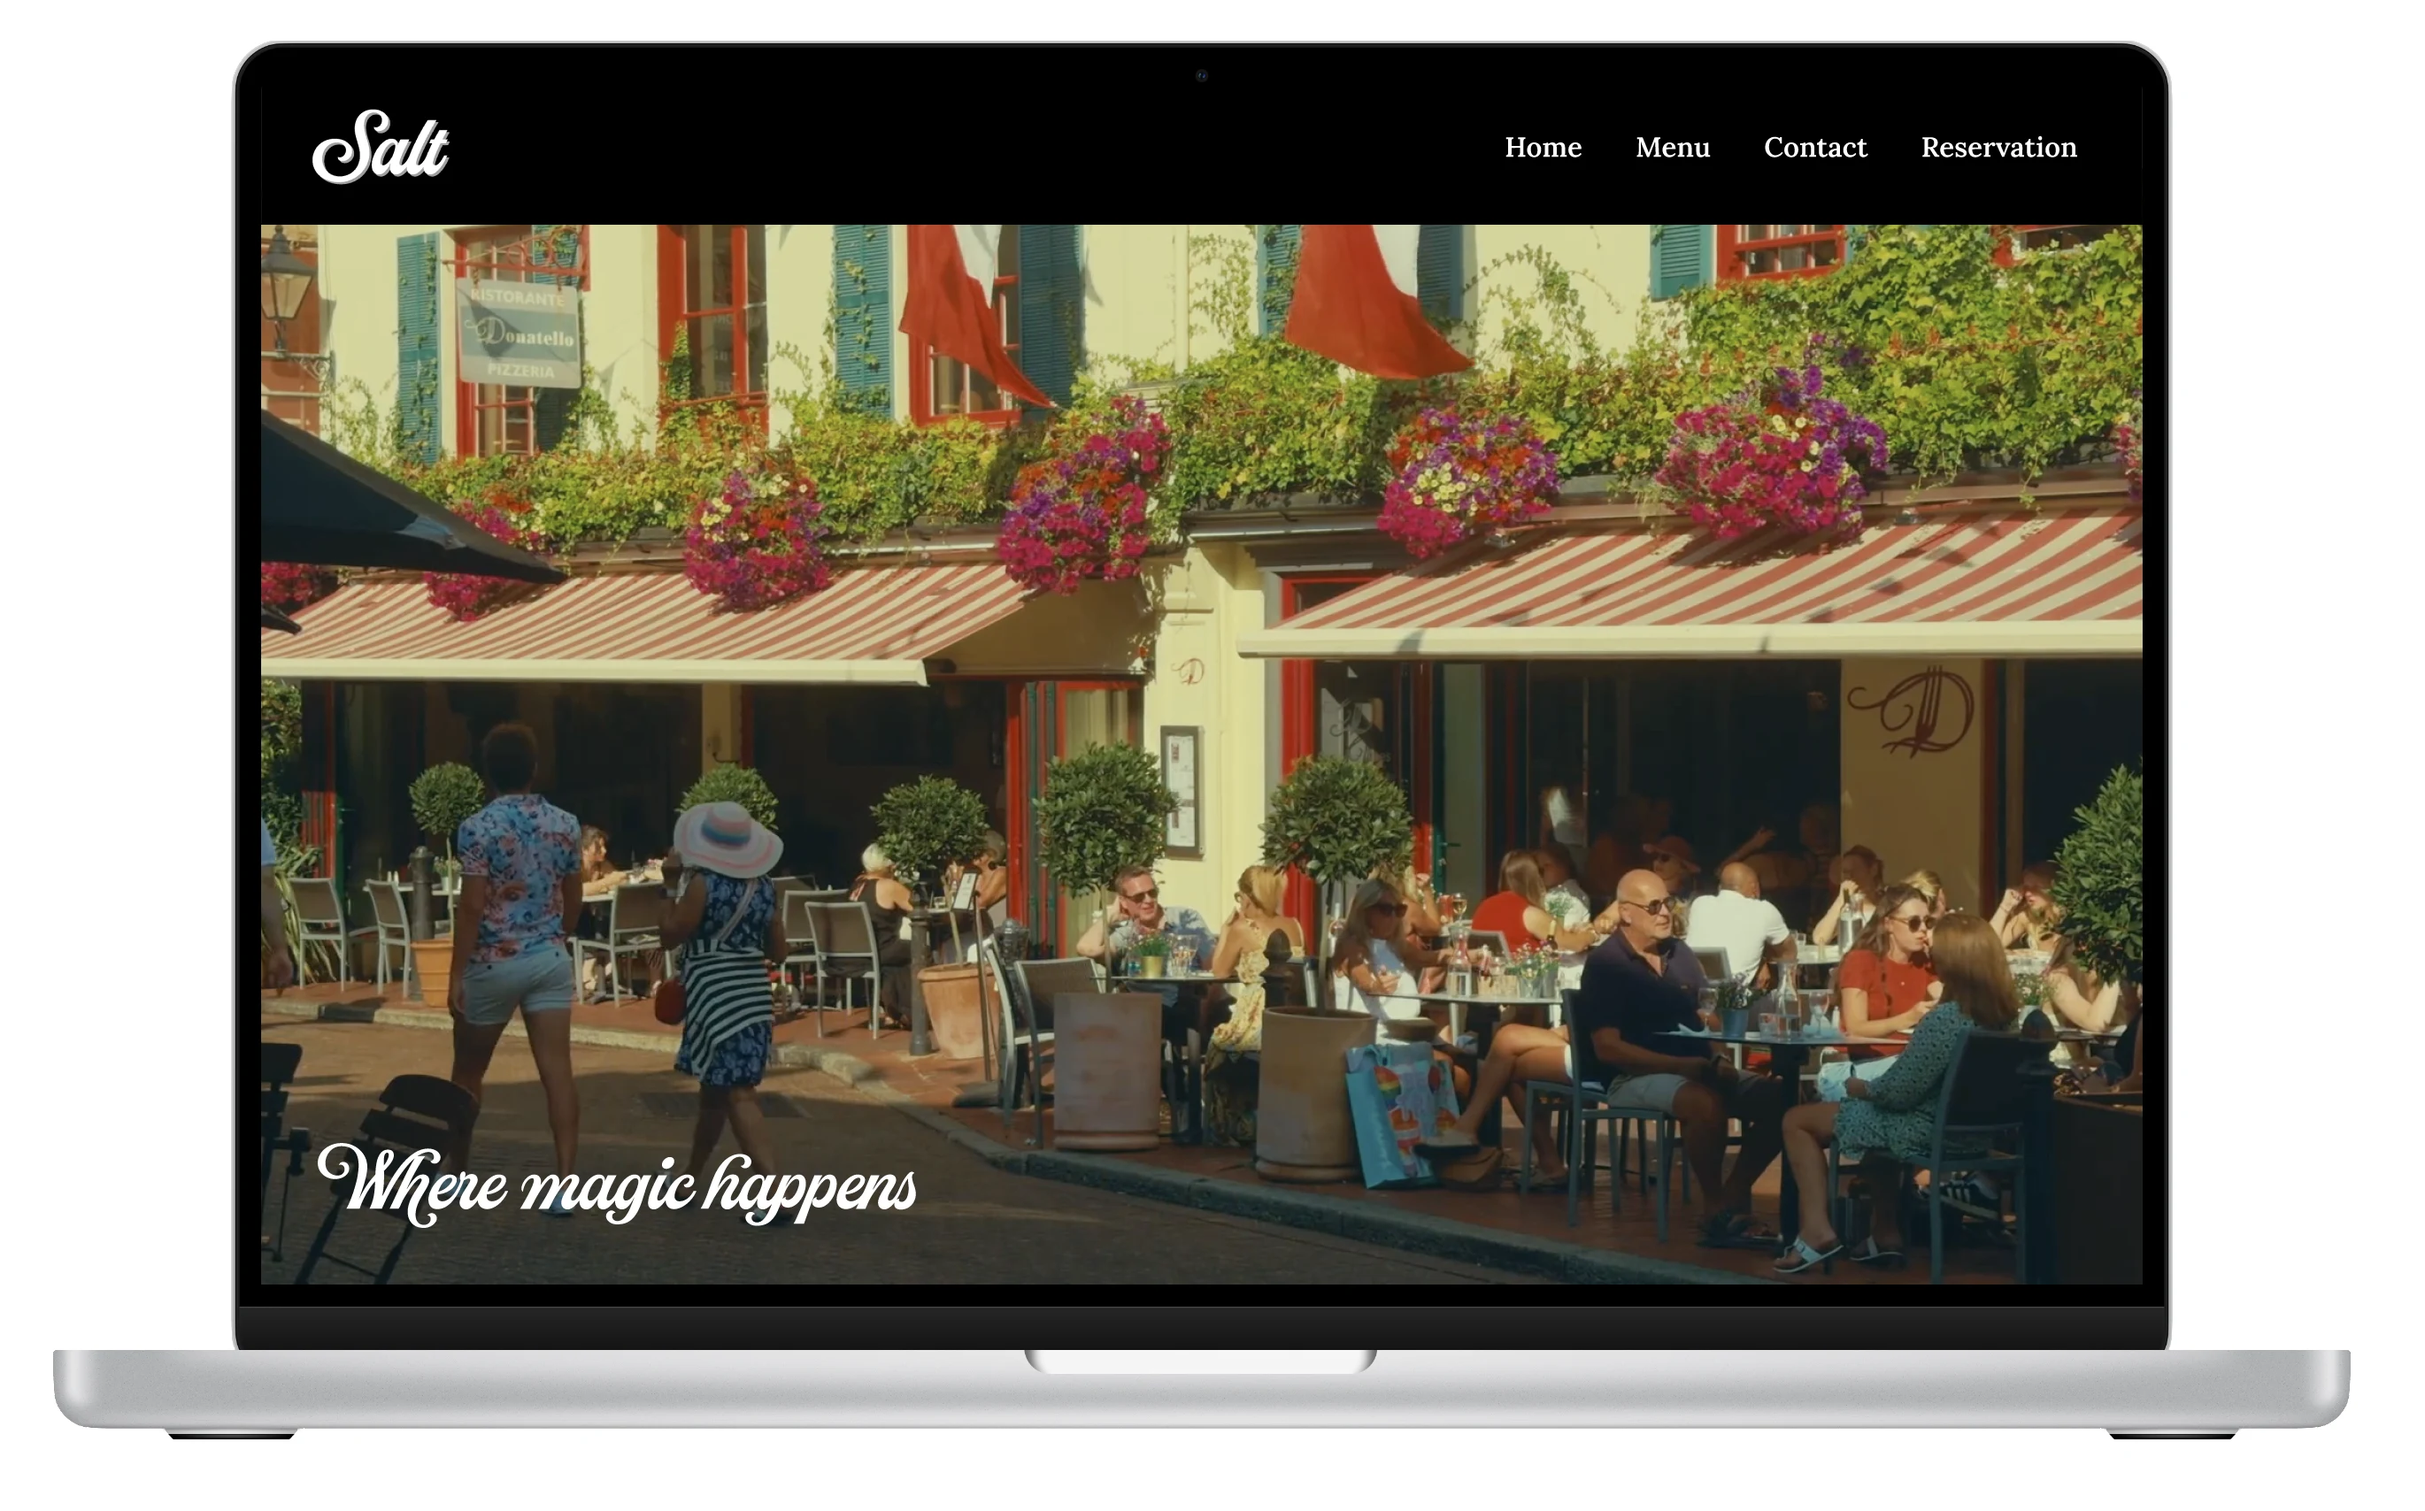
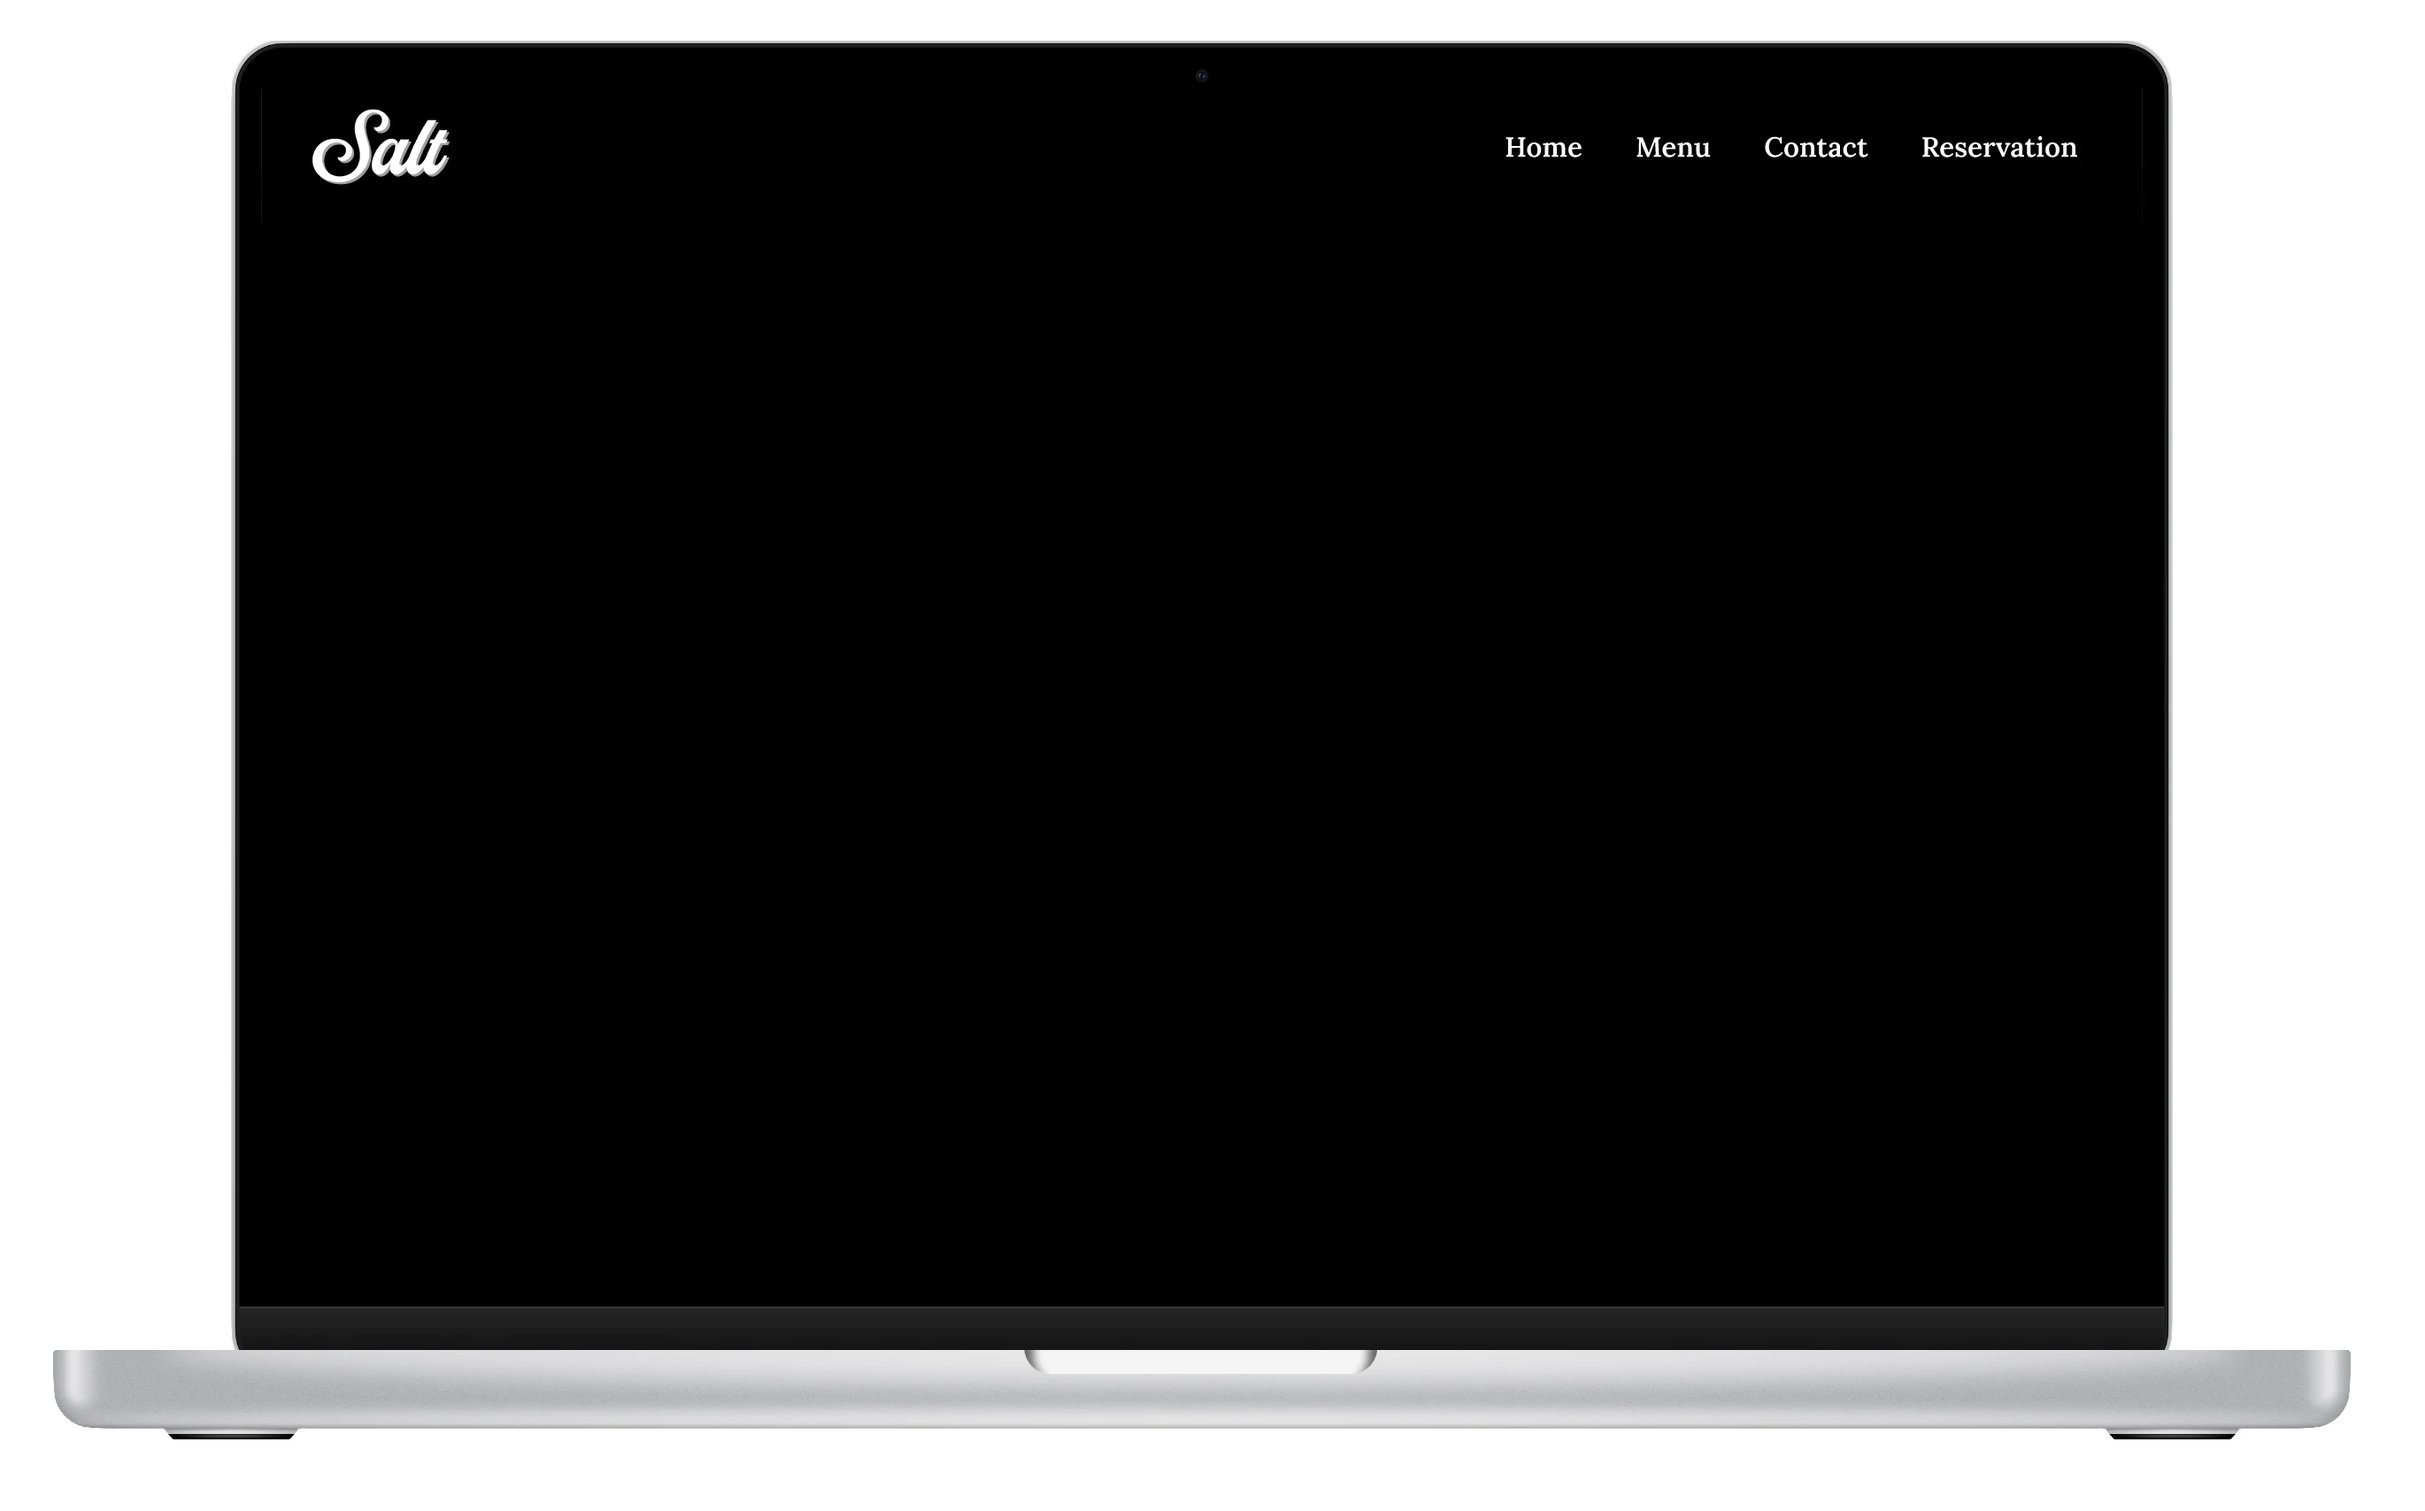
Fix Salt website mockup video alignment
Claude-Session: https://claude.ai/code/session_012rjQPFoh8rWcSSbUzZnwcZ

diff --git a/index.html b/index.html
@@ -874,7 +874,7 @@ function renderCase(p,nx){
 
 function renderGD(p,nx){
   const {bg,fg}=p.c; const first=(p.rows[0]||[])[0];
-  const row=r=>`<div class="gd-row"${r.length===1&&r[0].r<0.8?' style="max-width:760px;margin:0 auto;width:100%"':""}>${r.map(it=>`<figure style="flex:${it.r} 1 0;aspect-ratio:${it.r};position:relative"${it.screen?"":" data-lb"}><img src="${it.src}" alt="${p.title}" loading="lazy">${it.screen?`<video src="${it.screen.v}" poster="${it.screen.poster}" autoplay muted loop playsinline preload="auto" style="position:absolute;left:${it.screen.box[0]}%;top:${it.screen.box[1]}%;width:${it.screen.box[2]}%;height:${it.screen.box[3]}%;object-fit:cover;display:block"></video>${it.screen.over?`<img src="${it.screen.over[0]}" alt="" style="position:absolute;left:${it.screen.over[1]}%;top:${it.screen.over[2]}%;width:${it.screen.over[3]}%;height:auto;pointer-events:none">`:""}`:""}</figure>`).join("")}</div>`;
+  const row=r=>`<div class="gd-row"${r.length===1&&r[0].r<0.8?' style="max-width:760px;margin:0 auto;width:100%"':""}>${r.map(it=>`<figure style="flex:${it.r} 1 0;aspect-ratio:${it.r};position:relative"${it.screen?"":" data-lb"}><img src="${it.src}" alt="${p.title}" loading="lazy">${it.screen?`<div style="position:absolute;left:${it.screen.box[0]}%;top:${it.screen.box[1]}%;right:${(100-it.screen.box[0]-it.screen.box[2]).toFixed(3)}%;bottom:${(100-it.screen.box[1]-it.screen.box[3]).toFixed(3)}%;overflow:hidden;background:#000"><video src="${it.screen.v}" poster="${it.screen.poster}" autoplay muted loop playsinline preload="auto" style="position:absolute;top:0;left:0;width:100%;height:100%;max-width:none;object-fit:cover;display:block"></video></div>${it.screen.over?`<img src="${it.screen.over[0]}" alt="" style="position:absolute;left:${it.screen.over[1]}%;top:${it.screen.over[2]}%;width:${it.screen.over[3]}%;height:auto;pointer-events:none">`:""}`:""}</figure>`).join("")}</div>`;
   const rest=p.rows.slice(0); const mid=p.story.length?Math.min(2,rest.length):rest.length;
   document.getElementById("project").innerHTML=`
    <div class="gd" style="--bg:${bg};--fg:${fg}">
